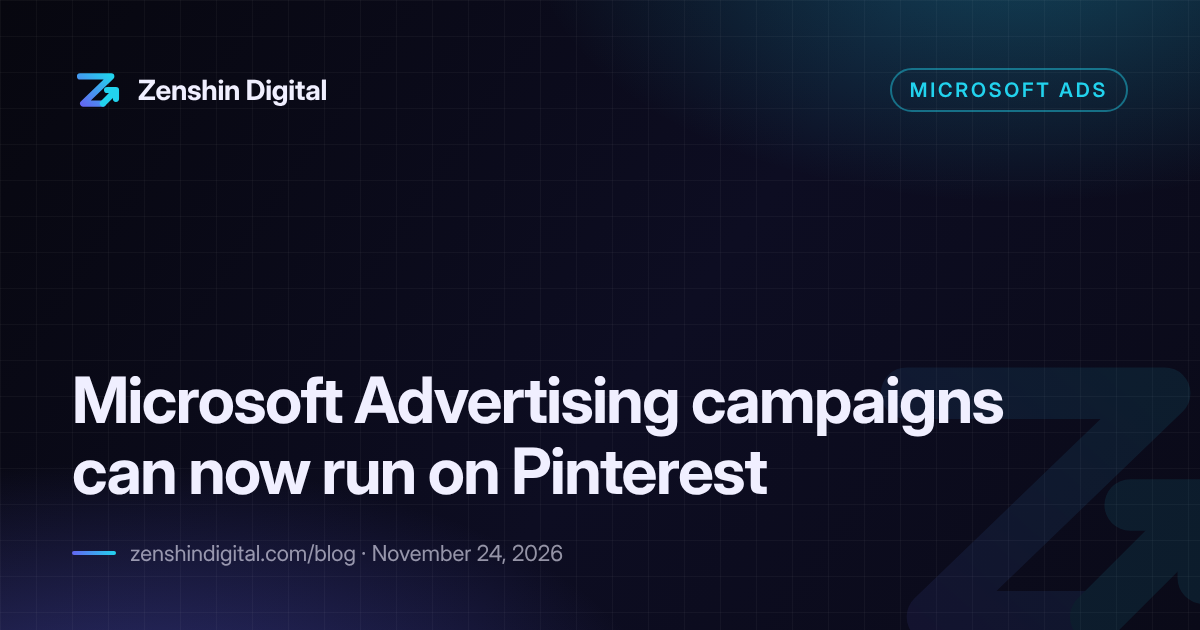
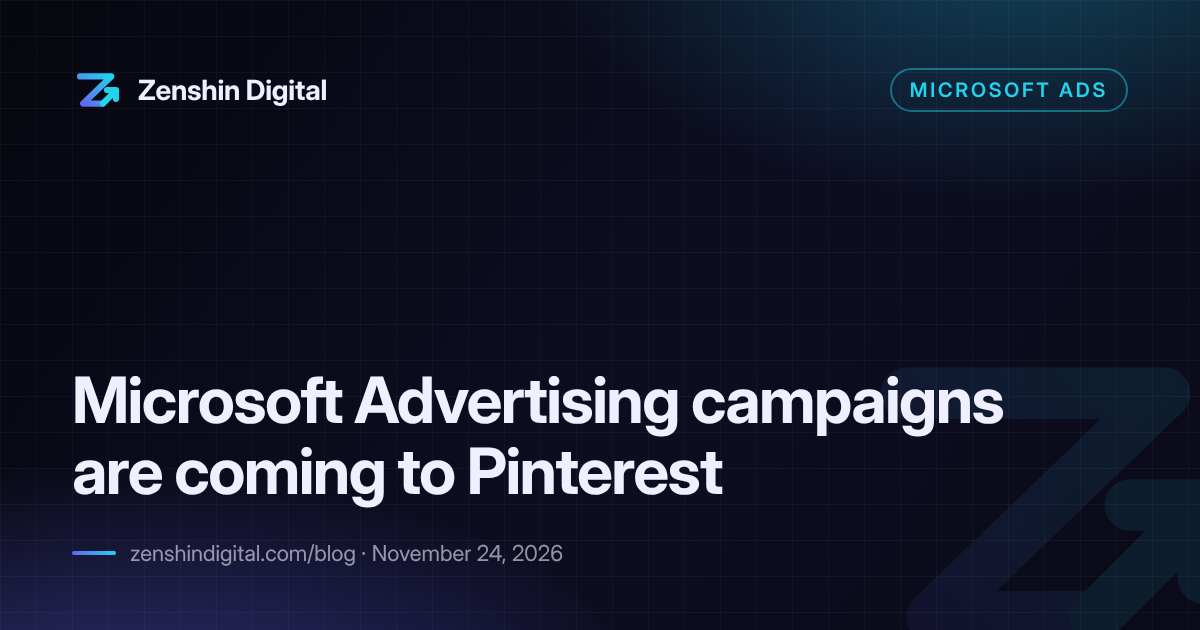
Blog: Pinterest integration is coming, not live everywhere yet
Claude-Session: https://claude.ai/code/session_01RqbJWJvxM8tQuKiB2CGVVh

Changed region(s): [[0.0617, 0.6937, 0.6475, 0.8143]]

diff --git a/blog/microsoft-advertising-pinterest-integration.html b/blog/microsoft-advertising-pinterest-integration.html
@@ -22,8 +22,8 @@
   <link rel="icon" type="image/svg+xml" href="/assets/brand/zenshin-icon-dark-bg.svg" />
   <link rel="icon" type="image/png" sizes="32x32" href="/assets/brand/favicon-32.png" />
   <link rel="apple-touch-icon" href="/assets/brand/apple-touch-icon.png" />
-  <script type="application/ld+json">{"@context": "https://schema.org", "@type": "NewsArticle", "headline": "Microsoft Advertising campaigns can now run on Pinterest", "description": "Pinterest and Microsoft Advertising announced an integration that lets eligible Microsoft Advertising campaigns extend to Pinterest's home feed, search and related Pins, starting in North America, Australia and New Zealand, without new buying tools.", "datePublished": "2026-11-24", "dateModified": "2026-11-24", "image": ["https://zenshindigital.com/blog/og/microsoft-advertising-pinterest-integration.png"], "mainEntityOfPage": "https://zenshindigital.com/blog/microsoft-advertising-pinterest-integration.html", "author": {"@type": "Person", "name": "Xabier Urrutia", "url": "https://zenshindigital.com/#about"}, "publisher": {"@type": "Organization", "name": "Zenshin Digital", "url": "https://zenshindigital.com"}}</script>
-  <script type="application/ld+json">{"@context": "https://schema.org", "@type": "FAQPage", "mainEntity": [{"@type": "Question", "name": "Can Microsoft Ads campaigns run on Pinterest?", "acceptedAnswer": {"@type": "Answer", "text": "Yes. Pinterest and Microsoft Advertising announced an integration that lets eligible Microsoft Advertising campaigns extend to Pinterest's home feed, search and related Pins."}}, {"@type": "Question", "name": "Where is the Microsoft Advertising and Pinterest integration available?", "acceptedAnswer": {"@type": "Answer", "text": "In North America, Australia and New Zealand to start."}}, {"@type": "Question", "name": "Do I need a Pinterest Ads account or a new tool?", "acceptedAnswer": {"@type": "Answer", "text": "Pinterest says the integration works without requiring new buying tools, using familiar Microsoft buying and measurement workflows."}}, {"@type": "Question", "name": "Which Microsoft campaign types are eligible?", "acceptedAnswer": {"@type": "Answer", "text": "The announcement refers to “eligible Microsoft Advertising campaigns” without naming specific campaign types."}}]}</script>
+  <script type="application/ld+json">{"@context": "https://schema.org", "@type": "NewsArticle", "headline": "Microsoft Advertising campaigns are coming to Pinterest", "description": "Pinterest and Microsoft Advertising announced an integration that lets eligible Microsoft Advertising campaigns extend to Pinterest's home feed, search and related Pins, starting in North America, Australia and New Zealand, without new buying tools.", "datePublished": "2026-11-24", "dateModified": "2026-11-24", "image": ["https://zenshindigital.com/blog/og/microsoft-advertising-pinterest-integration.png"], "mainEntityOfPage": "https://zenshindigital.com/blog/microsoft-advertising-pinterest-integration.html", "author": {"@type": "Person", "name": "Xabier Urrutia", "url": "https://zenshindigital.com/#about"}, "publisher": {"@type": "Organization", "name": "Zenshin Digital", "url": "https://zenshindigital.com"}}</script>
+  <script type="application/ld+json">{"@context": "https://schema.org", "@type": "FAQPage", "mainEntity": [{"@type": "Question", "name": "Can Microsoft Ads campaigns run on Pinterest?", "acceptedAnswer": {"@type": "Answer", "text": "Pinterest and Microsoft Advertising announced an integration that lets eligible Microsoft Advertising campaigns extend to Pinterest's home feed, search and related Pins. Pinterest says it will be available in North America, Australia and New Zealand to start."}}, {"@type": "Question", "name": "Where is the Microsoft Advertising and Pinterest integration available?", "acceptedAnswer": {"@type": "Answer", "text": "In North America, Australia and New Zealand to start."}}, {"@type": "Question", "name": "Do I need a Pinterest Ads account or a new tool?", "acceptedAnswer": {"@type": "Answer", "text": "Pinterest says the integration works without requiring new buying tools, using familiar Microsoft buying and measurement workflows."}}, {"@type": "Question", "name": "Which Microsoft campaign types are eligible?", "acceptedAnswer": {"@type": "Answer", "text": "The announcement refers to “eligible Microsoft Advertising campaigns” without naming specific campaign types."}}]}</script>
 </head>
 <body class="light">
 <header class="bnav"><div class="bwrap bnav-in">
@@ -34,7 +34,7 @@
 <main class="bwrap art">
   <a class="back" href="/blog/">← All articles</a>
   <div class="meta"><span class="tag">Microsoft Ads</span><time datetime="2026-11-24">November 24, 2026</time><span></span><span>By Xabier Urrutia</span></div>
-  <h1>Microsoft Advertising campaigns can now run on Pinterest</h1>
+  <h1>Microsoft Advertising campaigns are coming to Pinterest</h1>
   <p class="lede">Pinterest and Microsoft Advertising announced an integration that lets eligible Microsoft Advertising campaigns extend to Pinterest&#x27;s home feed, search and related Pins, starting in North America, Australia and New Zealand, without new buying tools.</p>
   <div class="takeaways"><h2>Key facts</h2><ul><li>Eligible Microsoft Advertising campaigns can extend to Pinterest&#x27;s visual search and shopping inventory.</li><li>Ads run in Pinterest&#x27;s open-auction inventory across the home feed, search and related Pins.</li><li>No new buying tools are required: advertisers use their usual Microsoft buying and measurement workflows.</li><li>The integration starts in North America, Australia and New Zealand.</li></ul></div>
   
@@ -73,7 +73,7 @@
   <li><strong>Other markets:</strong> no dates beyond the starting markets.</li>
 </ul>
 
-    <h2>FAQ</h2><div class="faq"><details><summary>Can Microsoft Ads campaigns run on Pinterest?</summary><p>Yes. Pinterest and Microsoft Advertising announced an integration that lets eligible Microsoft Advertising campaigns extend to Pinterest&#x27;s home feed, search and related Pins.</p></details><details><summary>Where is the Microsoft Advertising and Pinterest integration available?</summary><p>In North America, Australia and New Zealand to start.</p></details><details><summary>Do I need a Pinterest Ads account or a new tool?</summary><p>Pinterest says the integration works without requiring new buying tools, using familiar Microsoft buying and measurement workflows.</p></details><details><summary>Which Microsoft campaign types are eligible?</summary><p>The announcement refers to “eligible Microsoft Advertising campaigns” without naming specific campaign types.</p></details></div>
+    <h2>FAQ</h2><div class="faq"><details><summary>Can Microsoft Ads campaigns run on Pinterest?</summary><p>Pinterest and Microsoft Advertising announced an integration that lets eligible Microsoft Advertising campaigns extend to Pinterest&#x27;s home feed, search and related Pins. Pinterest says it will be available in North America, Australia and New Zealand to start.</p></details><details><summary>Where is the Microsoft Advertising and Pinterest integration available?</summary><p>In North America, Australia and New Zealand to start.</p></details><details><summary>Do I need a Pinterest Ads account or a new tool?</summary><p>Pinterest says the integration works without requiring new buying tools, using familiar Microsoft buying and measurement workflows.</p></details><details><summary>Which Microsoft campaign types are eligible?</summary><p>The announcement refers to “eligible Microsoft Advertising campaigns” without naming specific campaign types.</p></details></div>
     <div class="sources"><h2>Sources</h2><ul><li><a href="https://newsroom.pinterest.com/news/pinterest-microsoft-advertising-integration-2026/" rel="noopener" target="_blank">Pinterest Newsroom: Pinterest and Microsoft Advertising integration (November 23, 2026)</a></li></ul></div>
   </div>
   <a class="svc-link" href="/microsoft-ads.html">Need help with Microsoft Ads? See our Microsoft Ads services →</a>

diff --git a/blog/google-ads-under-re-review-status.html b/blog/google-ads-under-re-review-status.html
@@ -85,7 +85,7 @@
   <p>Book a free 30-minute strategy call. We'll review your current setup and identify quick wins.</p>
   <a class="btn" href="mailto:hello@zenshindigital.com?subject=Strategy%20call">Book a Free Strategy Call</a>
 </section>
-  <section class="more"><h2>More paid media news</h2><a class="more-item" href="/blog/microsoft-advertising-pinterest-integration.html"><span class="tag">Microsoft Ads</span>Microsoft Advertising campaigns can now run on Pinterest</a><a class="more-item" href="/blog/youtube-shorts-ads-likes-engaged-view-conversions.html"><span class="tag">Google Ads</span>YouTube Shorts ads: a like, comment or share now counts for engaged-view conversions</a><a class="more-item" href="/blog/microsoft-ads-bing-ai-overviews-november-2026.html"><span class="tag">Microsoft Ads</span>Microsoft Ads now shows ads in Bing&#x27;s AI Overviews, plus 5 more November updates</a></section>
+  <section class="more"><h2>More paid media news</h2><a class="more-item" href="/blog/microsoft-advertising-pinterest-integration.html"><span class="tag">Microsoft Ads</span>Microsoft Advertising campaigns are coming to Pinterest</a><a class="more-item" href="/blog/youtube-shorts-ads-likes-engaged-view-conversions.html"><span class="tag">Google Ads</span>YouTube Shorts ads: a like, comment or share now counts for engaged-view conversions</a><a class="more-item" href="/blog/microsoft-ads-bing-ai-overviews-november-2026.html"><span class="tag">Microsoft Ads</span>Microsoft Ads now shows ads in Bing&#x27;s AI Overviews, plus 5 more November updates</a></section>
 </main>
 <footer class="bfoot"><div class="bwrap">
   <span>© 2026 Zenshin Digital</span>

diff --git a/blog/google-ai-max-search-term-matchtype.html b/blog/google-ai-max-search-term-matchtype.html
@@ -110,7 +110,7 @@
   <p>Book a free 30-minute strategy call. We'll review your current setup and identify quick wins.</p>
   <a class="btn" href="mailto:hello@zenshindigital.com?subject=Strategy%20call">Book a Free Strategy Call</a>
 </section>
-  <section class="more"><h2>More paid media news</h2><a class="more-item" href="/blog/microsoft-advertising-pinterest-integration.html"><span class="tag">Microsoft Ads</span>Microsoft Advertising campaigns can now run on Pinterest</a><a class="more-item" href="/blog/youtube-shorts-ads-likes-engaged-view-conversions.html"><span class="tag">Google Ads</span>YouTube Shorts ads: a like, comment or share now counts for engaged-view conversions</a><a class="more-item" href="/blog/google-ads-under-re-review-status.html"><span class="tag">Google Ads</span>Google explains the “Under re-review” ad status: why approved ads stop serving</a></section>
+  <section class="more"><h2>More paid media news</h2><a class="more-item" href="/blog/microsoft-advertising-pinterest-integration.html"><span class="tag">Microsoft Ads</span>Microsoft Advertising campaigns are coming to Pinterest</a><a class="more-item" href="/blog/youtube-shorts-ads-likes-engaged-view-conversions.html"><span class="tag">Google Ads</span>YouTube Shorts ads: a like, comment or share now counts for engaged-view conversions</a><a class="more-item" href="/blog/google-ads-under-re-review-status.html"><span class="tag">Google Ads</span>Google explains the “Under re-review” ad status: why approved ads stop serving</a></section>
 </main>
 <footer class="bfoot"><div class="bwrap">
   <span>© 2026 Zenshin Digital</span>

diff --git a/blog/amazon-ads-price-claims-policy.html b/blog/amazon-ads-price-claims-policy.html
@@ -95,7 +95,7 @@
   <p>Book a free 30-minute strategy call. We'll review your current setup and identify quick wins.</p>
   <a class="btn" href="mailto:hello@zenshindigital.com?subject=Strategy%20call">Book a Free Strategy Call</a>
 </section>
-  <section class="more"><h2>More paid media news</h2><a class="more-item" href="/blog/microsoft-advertising-pinterest-integration.html"><span class="tag">Microsoft Ads</span>Microsoft Advertising campaigns can now run on Pinterest</a><a class="more-item" href="/blog/youtube-shorts-ads-likes-engaged-view-conversions.html"><span class="tag">Google Ads</span>YouTube Shorts ads: a like, comment or share now counts for engaged-view conversions</a><a class="more-item" href="/blog/google-ads-under-re-review-status.html"><span class="tag">Google Ads</span>Google explains the “Under re-review” ad status: why approved ads stop serving</a></section>
+  <section class="more"><h2>More paid media news</h2><a class="more-item" href="/blog/microsoft-advertising-pinterest-integration.html"><span class="tag">Microsoft Ads</span>Microsoft Advertising campaigns are coming to Pinterest</a><a class="more-item" href="/blog/youtube-shorts-ads-likes-engaged-view-conversions.html"><span class="tag">Google Ads</span>YouTube Shorts ads: a like, comment or share now counts for engaged-view conversions</a><a class="more-item" href="/blog/google-ads-under-re-review-status.html"><span class="tag">Google Ads</span>Google explains the “Under re-review” ad status: why approved ads stop serving</a></section>
 </main>
 <footer class="bfoot"><div class="bwrap">
   <span>© 2026 Zenshin Digital</span>

diff --git a/blog/meta-ads-5-existing-posts-one-ad.html b/blog/meta-ads-5-existing-posts-one-ad.html
@@ -89,7 +89,7 @@
   <p>Book a free 30-minute strategy call. We'll review your current setup and identify quick wins.</p>
   <a class="btn" href="mailto:hello@zenshindigital.com?subject=Strategy%20call">Book a Free Strategy Call</a>
 </section>
-  <section class="more"><h2>More paid media news</h2><a class="more-item" href="/blog/microsoft-advertising-pinterest-integration.html"><span class="tag">Microsoft Ads</span>Microsoft Advertising campaigns can now run on Pinterest</a><a class="more-item" href="/blog/youtube-shorts-ads-likes-engaged-view-conversions.html"><span class="tag">Google Ads</span>YouTube Shorts ads: a like, comment or share now counts for engaged-view conversions</a><a class="more-item" href="/blog/google-ads-under-re-review-status.html"><span class="tag">Google Ads</span>Google explains the “Under re-review” ad status: why approved ads stop serving</a></section>
+  <section class="more"><h2>More paid media news</h2><a class="more-item" href="/blog/microsoft-advertising-pinterest-integration.html"><span class="tag">Microsoft Ads</span>Microsoft Advertising campaigns are coming to Pinterest</a><a class="more-item" href="/blog/youtube-shorts-ads-likes-engaged-view-conversions.html"><span class="tag">Google Ads</span>YouTube Shorts ads: a like, comment or share now counts for engaged-view conversions</a><a class="more-item" href="/blog/google-ads-under-re-review-status.html"><span class="tag">Google Ads</span>Google explains the “Under re-review” ad status: why approved ads stop serving</a></section>
 </main>
 <footer class="bfoot"><div class="bwrap">
   <span>© 2026 Zenshin Digital</span>

diff --git a/blog/microsoft-ads-automated-bidding-upgrade.html b/blog/microsoft-ads-automated-bidding-upgrade.html
@@ -87,7 +87,7 @@
   <p>Book a free 30-minute strategy call. We'll review your current setup and identify quick wins.</p>
   <a class="btn" href="mailto:hello@zenshindigital.com?subject=Strategy%20call">Book a Free Strategy Call</a>
 </section>
-  <section class="more"><h2>More paid media news</h2><a class="more-item" href="/blog/microsoft-advertising-pinterest-integration.html"><span class="tag">Microsoft Ads</span>Microsoft Advertising campaigns can now run on Pinterest</a><a class="more-item" href="/blog/youtube-shorts-ads-likes-engaged-view-conversions.html"><span class="tag">Google Ads</span>YouTube Shorts ads: a like, comment or share now counts for engaged-view conversions</a><a class="more-item" href="/blog/google-ads-under-re-review-status.html"><span class="tag">Google Ads</span>Google explains the “Under re-review” ad status: why approved ads stop serving</a></section>
+  <section class="more"><h2>More paid media news</h2><a class="more-item" href="/blog/microsoft-advertising-pinterest-integration.html"><span class="tag">Microsoft Ads</span>Microsoft Advertising campaigns are coming to Pinterest</a><a class="more-item" href="/blog/youtube-shorts-ads-likes-engaged-view-conversions.html"><span class="tag">Google Ads</span>YouTube Shorts ads: a like, comment or share now counts for engaged-view conversions</a><a class="more-item" href="/blog/google-ads-under-re-review-status.html"><span class="tag">Google Ads</span>Google explains the “Under re-review” ad status: why approved ads stop serving</a></section>
 </main>
 <footer class="bfoot"><div class="bwrap">
   <span>© 2026 Zenshin Digital</span>

diff --git a/blog/microsoft-ads-bing-ai-overviews-november-2026.html b/blog/microsoft-ads-bing-ai-overviews-november-2026.html
@@ -94,7 +94,7 @@
   <p>Book a free 30-minute strategy call. We'll review your current setup and identify quick wins.</p>
   <a class="btn" href="mailto:hello@zenshindigital.com?subject=Strategy%20call">Book a Free Strategy Call</a>
 </section>
-  <section class="more"><h2>More paid media news</h2><a class="more-item" href="/blog/microsoft-advertising-pinterest-integration.html"><span class="tag">Microsoft Ads</span>Microsoft Advertising campaigns can now run on Pinterest</a><a class="more-item" href="/blog/youtube-shorts-ads-likes-engaged-view-conversions.html"><span class="tag">Google Ads</span>YouTube Shorts ads: a like, comment or share now counts for engaged-view conversions</a><a class="more-item" href="/blog/google-ads-under-re-review-status.html"><span class="tag">Google Ads</span>Google explains the “Under re-review” ad status: why approved ads stop serving</a></section>
+  <section class="more"><h2>More paid media news</h2><a class="more-item" href="/blog/microsoft-advertising-pinterest-integration.html"><span class="tag">Microsoft Ads</span>Microsoft Advertising campaigns are coming to Pinterest</a><a class="more-item" href="/blog/youtube-shorts-ads-likes-engaged-view-conversions.html"><span class="tag">Google Ads</span>YouTube Shorts ads: a like, comment or share now counts for engaged-view conversions</a><a class="more-item" href="/blog/google-ads-under-re-review-status.html"><span class="tag">Google Ads</span>Google explains the “Under re-review” ad status: why approved ads stop serving</a></section>
 </main>
 <footer class="bfoot"><div class="bwrap">
   <span>© 2026 Zenshin Digital</span>

diff --git a/blog/youtube-shorts-ads-likes-engaged-view-conversions.html b/blog/youtube-shorts-ads-likes-engaged-view-conversions.html
@@ -79,7 +79,7 @@
   <p>Book a free 30-minute strategy call. We'll review your current setup and identify quick wins.</p>
   <a class="btn" href="mailto:hello@zenshindigital.com?subject=Strategy%20call">Book a Free Strategy Call</a>
 </section>
-  <section class="more"><h2>More paid media news</h2><a class="more-item" href="/blog/microsoft-advertising-pinterest-integration.html"><span class="tag">Microsoft Ads</span>Microsoft Advertising campaigns can now run on Pinterest</a><a class="more-item" href="/blog/google-ads-under-re-review-status.html"><span class="tag">Google Ads</span>Google explains the “Under re-review” ad status: why approved ads stop serving</a><a class="more-item" href="/blog/microsoft-ads-bing-ai-overviews-november-2026.html"><span class="tag">Microsoft Ads</span>Microsoft Ads now shows ads in Bing&#x27;s AI Overviews, plus 5 more November updates</a></section>
+  <section class="more"><h2>More paid media news</h2><a class="more-item" href="/blog/microsoft-advertising-pinterest-integration.html"><span class="tag">Microsoft Ads</span>Microsoft Advertising campaigns are coming to Pinterest</a><a class="more-item" href="/blog/google-ads-under-re-review-status.html"><span class="tag">Google Ads</span>Google explains the “Under re-review” ad status: why approved ads stop serving</a><a class="more-item" href="/blog/microsoft-ads-bing-ai-overviews-november-2026.html"><span class="tag">Microsoft Ads</span>Microsoft Ads now shows ads in Bing&#x27;s AI Overviews, plus 5 more November updates</a></section>
 </main>
 <footer class="bfoot"><div class="bwrap">
   <span>© 2026 Zenshin Digital</span>

diff --git a/microsoft-ads.html b/microsoft-ads.html
@@ -48,7 +48,7 @@
   </section>
   <section class="svc-sec">
     <h2>Latest Microsoft Ads news</h2>
-    <div class="news"><a class="more-item" href="/blog/microsoft-advertising-pinterest-integration.html"><time datetime="2026-11-24">November 24, 2026</time>Microsoft Advertising campaigns can now run on Pinterest</a><a class="more-item" href="/blog/microsoft-ads-bing-ai-overviews-november-2026.html"><time datetime="2026-11-20">November 20, 2026</time>Microsoft Ads now shows ads in Bing&#x27;s AI Overviews, plus 5 more November updates</a><a class="more-item" href="/blog/microsoft-ads-automated-bidding-upgrade.html"><time datetime="2026-11-19">November 19, 2026</time>Microsoft Ads rolls out its biggest bidding upgrade in a decade</a></div>
+    <div class="news"><a class="more-item" href="/blog/microsoft-advertising-pinterest-integration.html"><time datetime="2026-11-24">November 24, 2026</time>Microsoft Advertising campaigns are coming to Pinterest</a><a class="more-item" href="/blog/microsoft-ads-bing-ai-overviews-november-2026.html"><time datetime="2026-11-20">November 20, 2026</time>Microsoft Ads now shows ads in Bing&#x27;s AI Overviews, plus 5 more November updates</a><a class="more-item" href="/blog/microsoft-ads-automated-bidding-upgrade.html"><time datetime="2026-11-19">November 19, 2026</time>Microsoft Ads rolls out its biggest bidding upgrade in a decade</a></div>
     <a class="all" href="/blog/">All paid media news →</a>
   </section>
   <section class="svc-sec">

diff --git a/blog/index.html b/blog/index.html
@@ -40,7 +40,7 @@
   <a class="post" href="/blog/microsoft-advertising-pinterest-integration.html">
     <div class="post-b">
       <div class="meta"><span class="tag">Microsoft Ads</span><time datetime="2026-11-24">November 24, 2026</time></div>
-      <h2>Microsoft Advertising campaigns can now run on Pinterest</h2>
+      <h2>Microsoft Advertising campaigns are coming to Pinterest</h2>
       <p>Pinterest and Microsoft Advertising announced an integration that lets eligible Microsoft Advertising campaigns extend to Pinterest&#x27;s home feed, search and related Pins, starting in North America, Australia and New Zealand, without new buying tools.</p>
       <span class="read">Read article →</span>
     </div>

diff --git a/_blog_src/posts.py b/_blog_src/posts.py
@@ -12,7 +12,7 @@ POSTS = [
     date="2026-11-24",
     modified="2026-11-24",
     platform="Microsoft Ads",
-    title="Microsoft Advertising campaigns can now run on Pinterest",
+    title="Microsoft Advertising campaigns are coming to Pinterest",
     seo_title="Microsoft Advertising x Pinterest Integration: Where Ads Run, Markets & Details",
     description="Pinterest and Microsoft Advertising announced an integration that lets eligible Microsoft Advertising campaigns extend to Pinterest's home feed, search and related Pins, starting in North America, Australia and New Zealand, without new buying tools.",
     image=None,
@@ -58,7 +58,7 @@ POSTS = [
 """,
     faq=[
       ("Can Microsoft Ads campaigns run on Pinterest?",
-       "Yes. Pinterest and Microsoft Advertising announced an integration that lets eligible Microsoft Advertising campaigns extend to Pinterest's home feed, search and related Pins."),
+       "Pinterest and Microsoft Advertising announced an integration that lets eligible Microsoft Advertising campaigns extend to Pinterest's home feed, search and related Pins. Pinterest says it will be available in North America, Australia and New Zealand to start."),
       ("Where is the Microsoft Advertising and Pinterest integration available?",
        "In North America, Australia and New Zealand to start."),
       ("Do I need a Pinterest Ads account or a new tool?",
